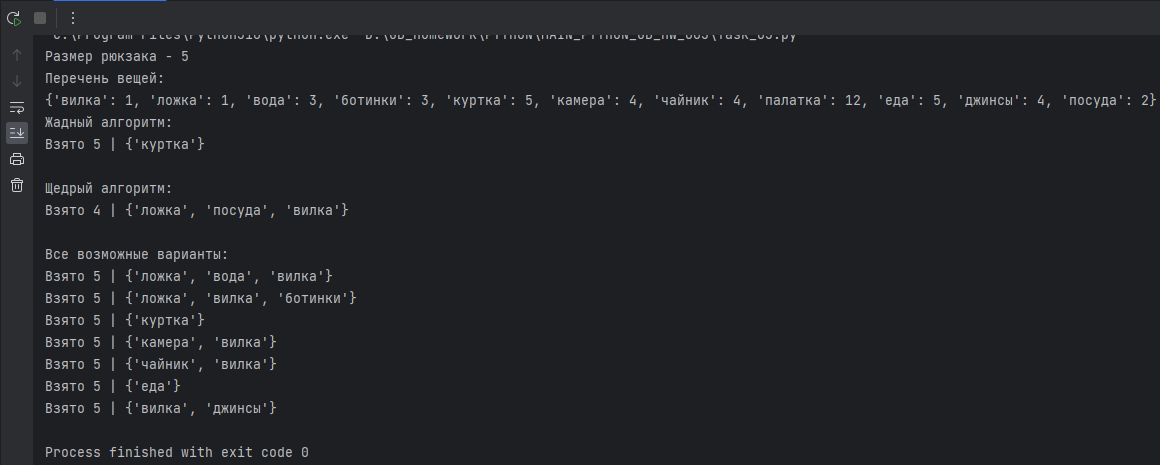
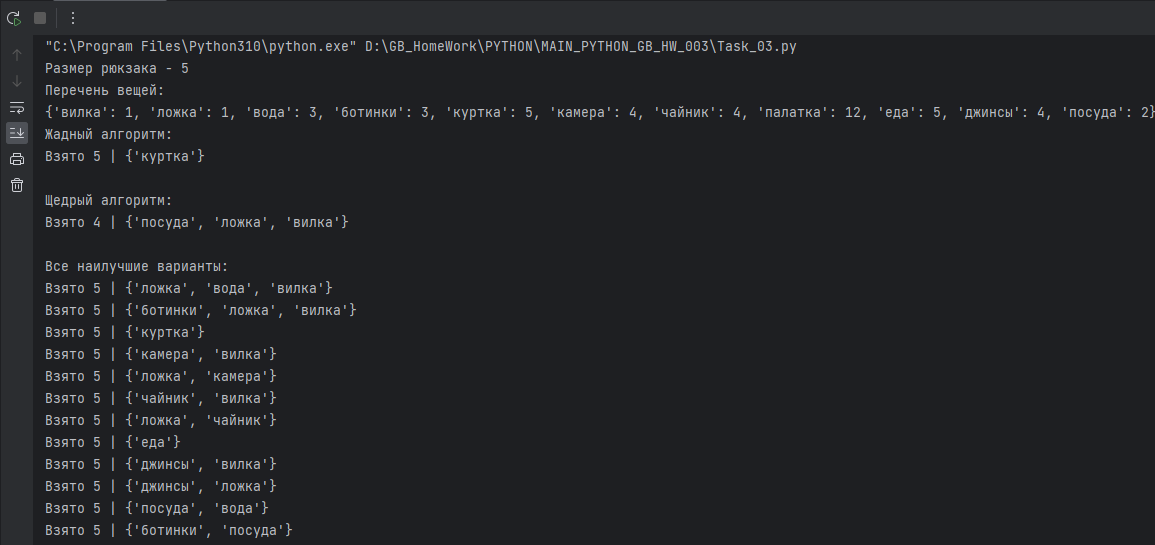
ready

Changed region(s): [[0.0312, 0.3613, 0.3117, 0.9935], [0.0, 0.0602, 1.0, 0.3613], [0.0, 0.0301, 0.0312, 0.0602]]

diff --git a/Task_03.py b/Task_03.py
@@ -60,7 +60,7 @@ def bag_all_pack(things: dict[str, int], bag_volume: int) -> list:
                 # пропустить, если добавление невозможно к существующему набору или уже найдено решение,
                 # более полно заполняющее рюкзак
                 weight = x[0] + t_val
-                if bag_volume >= weight >= best_case and not x[1].issubset(t_key):
+                if bag_volume >= weight and not x[1].issubset(t_key):
                     y: list[int | set] = copy.deepcopy(x)
                     y[0] += t_val
                     y[1].add(t_key)
@@ -69,7 +69,7 @@ def bag_all_pack(things: dict[str, int], bag_volume: int) -> list:
             if len(tmp_list):
                 for t in tmp_list:
                     bag_list.append(t)
-            if bag_volume >= t_val >= best_case:
+            if bag_volume >= t_val:
                 bag_list.append([t_val, {t_key}])
 
     bag_list = list(filter(lambda b: b[0] == best_case, bag_list))
@@ -95,7 +95,7 @@ def main():
     print("Щедрый алгоритм:")
     print_bag(bag_pack(THINGS_DICT, BAG_SIZE, False))
     print()
-    print("Все возможные варианты:")
+    print("Все наилучшие варианты:")
     for x in bag_all_pack(THINGS_DICT, BAG_SIZE):
         print_bag(x)
 

diff --git a/README.md b/README.md
@@ -29,7 +29,7 @@
 Для поиска используется три метода:
 - "жадный" рюкзак - хватает в начале вещи с наибольшим весом
 - "щедрый" рюкзак - начинает заполнение с наиболее легких
-- пересмотр всех возможных вариантов наилучшего заполнения 
+- поиск всех возможных вариантов максимально-лучшего заполнения 
 
 **Пример выполнения**
 
